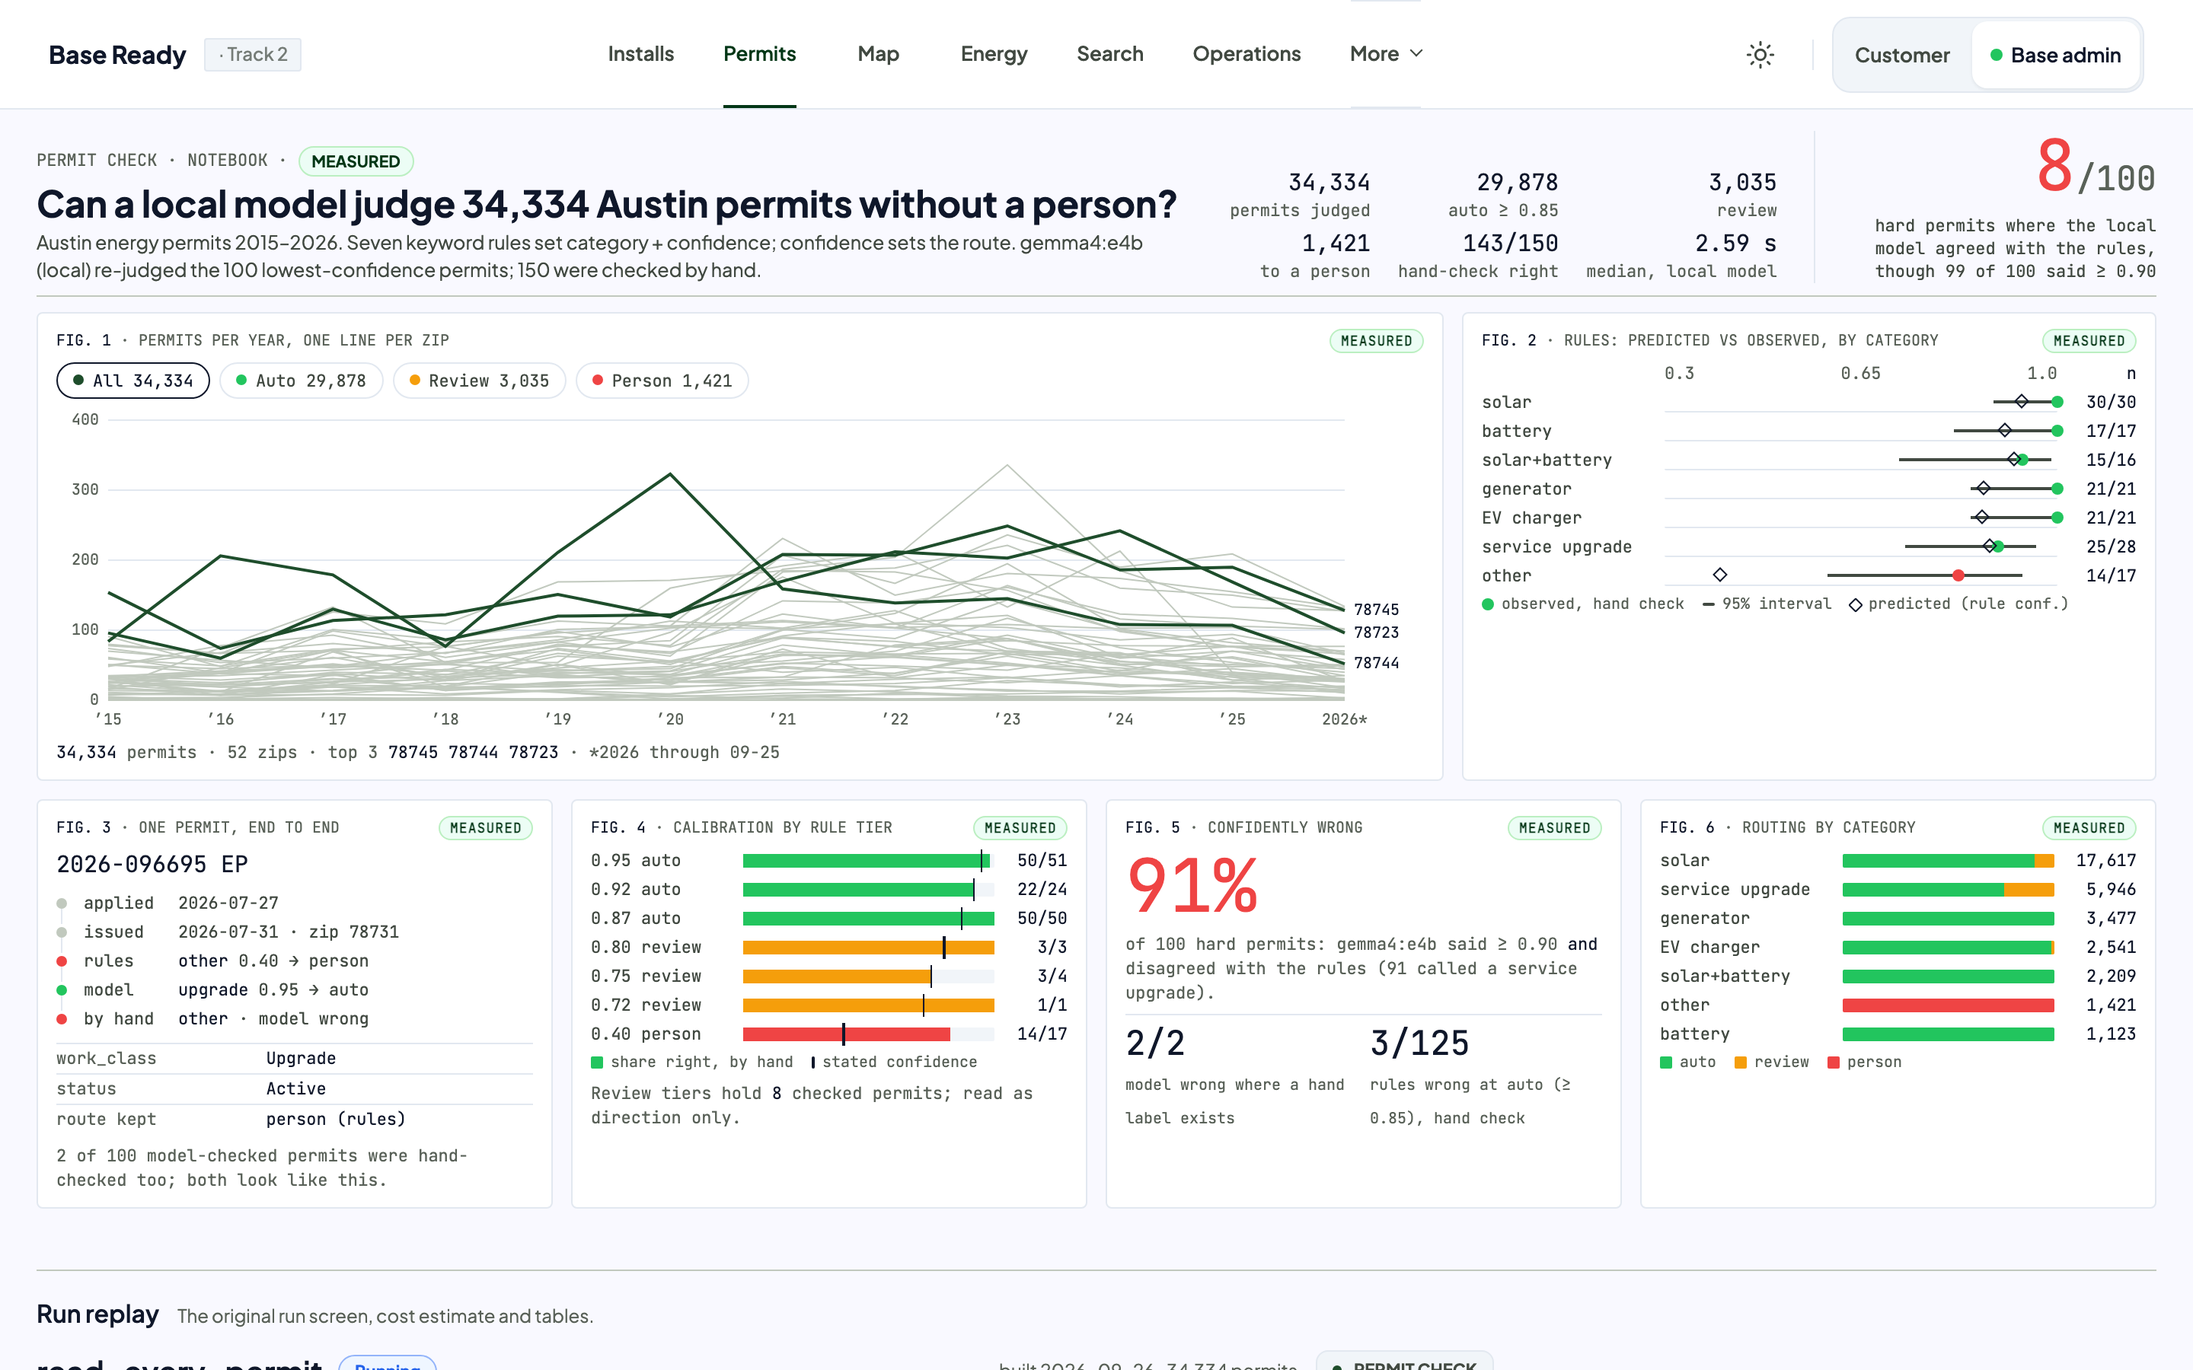
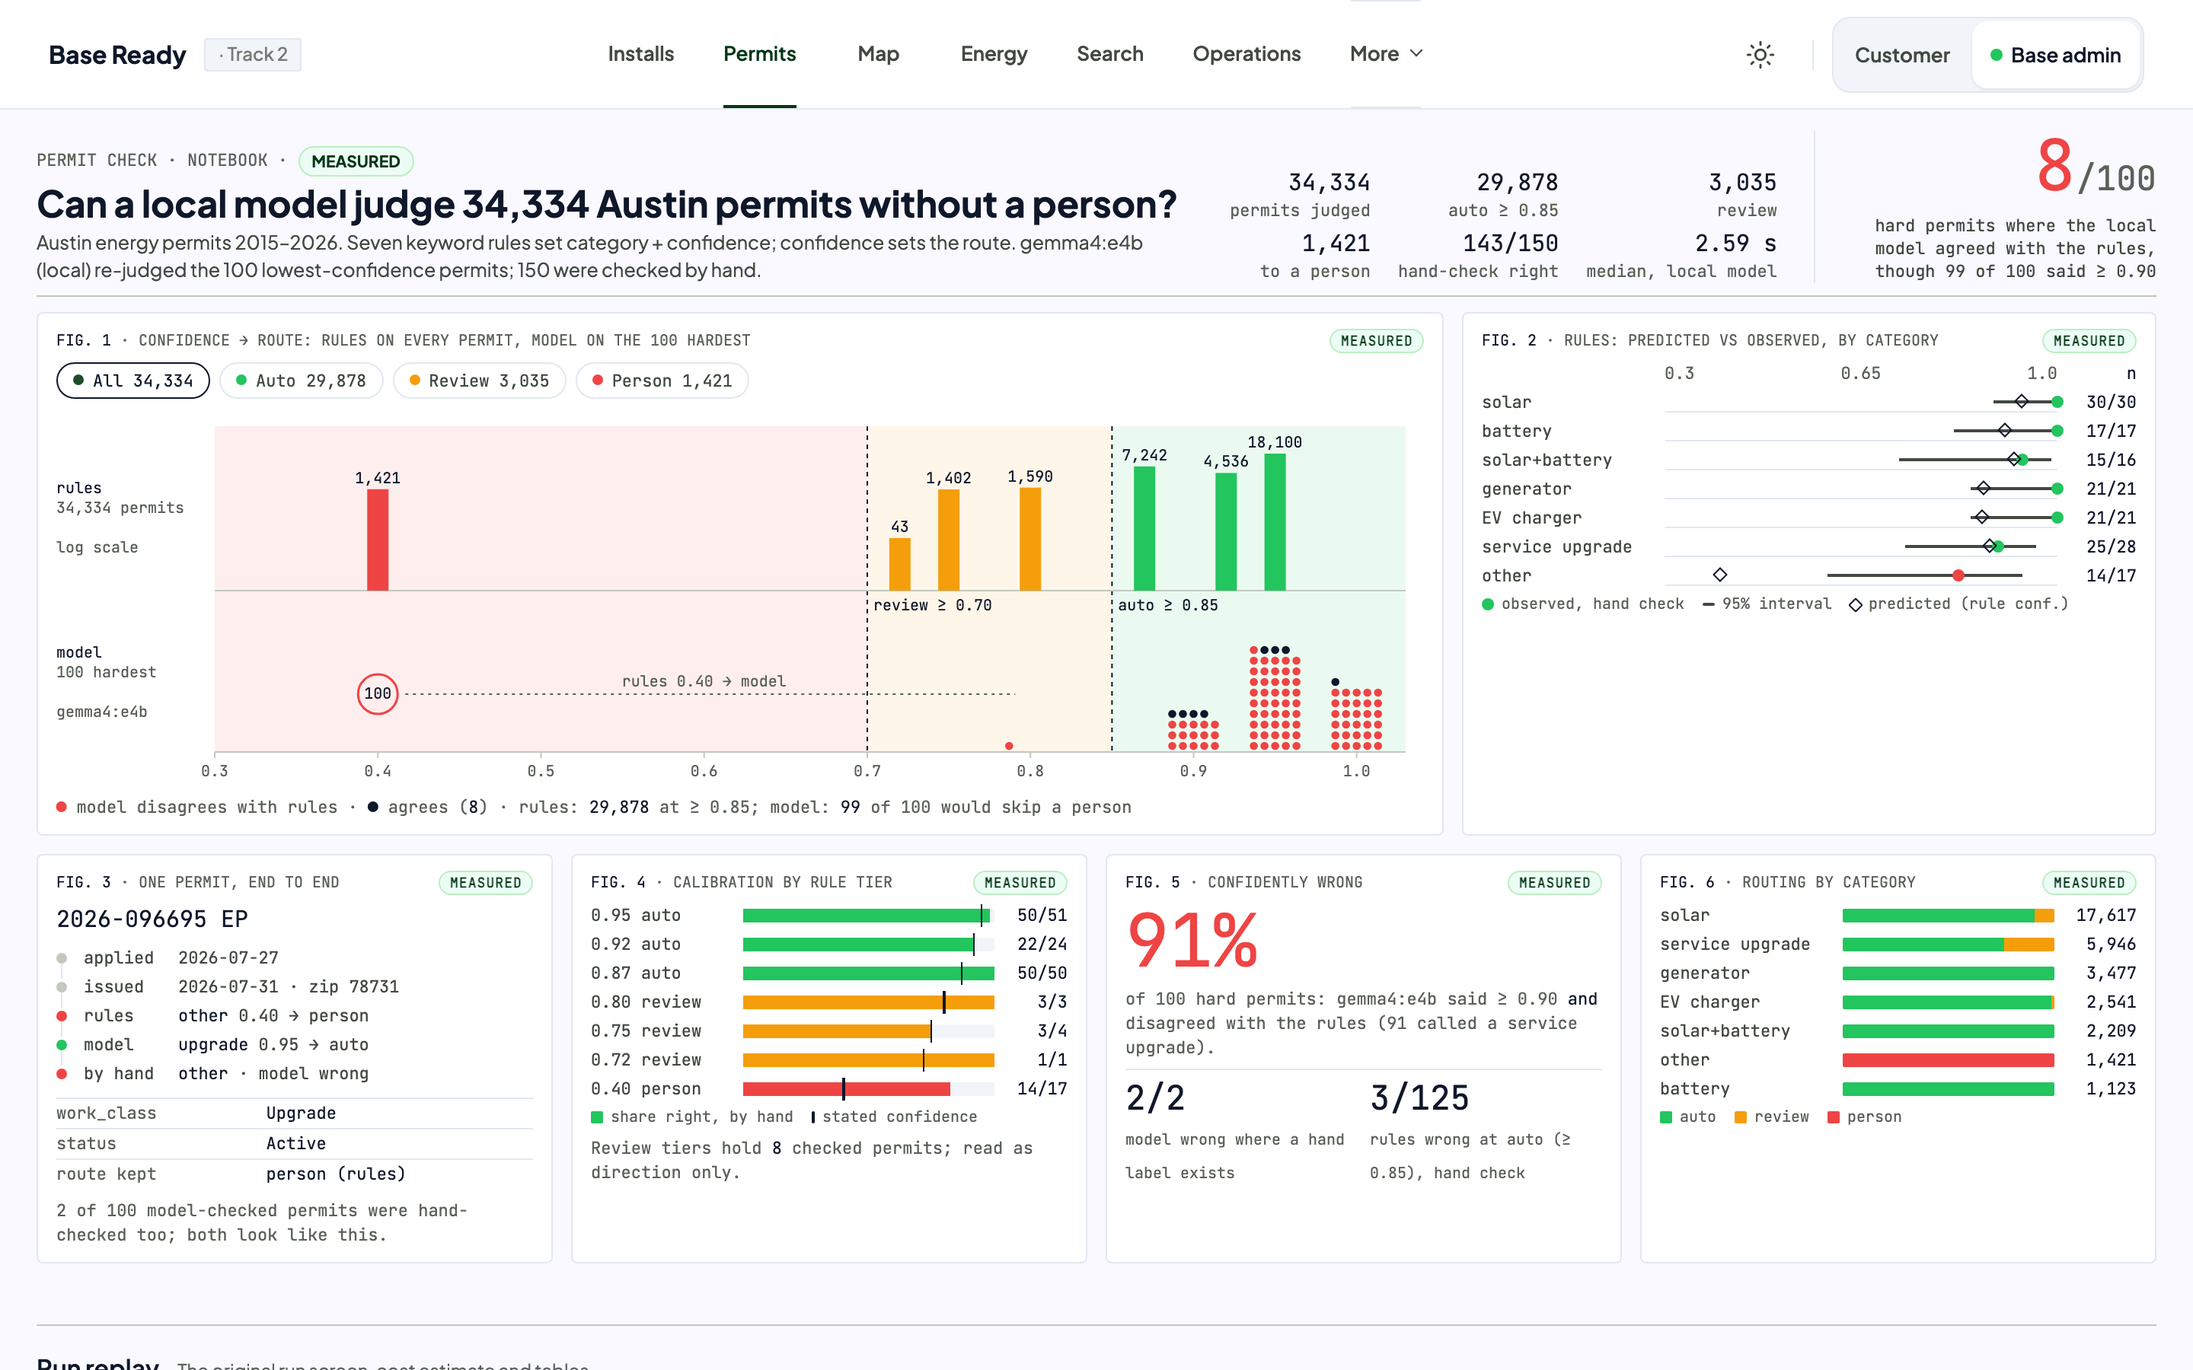
permits: FIG. 1 shows confidence -> route (rules on all, model on the 100 hardest); README explains routing
- FIG. 1 replaces permits-per-year with the judging view, 0.70/0.85 thresholds marked
- README "How permit routing works": data, seven rules, thresholds, counts, hand check, local model check, rebuild, tests
- tests/test_permit_routing.py: mirror + rules reproduce the published counts

Claude-Session: https://claude.ai/code/session_01MhZ4defSvUL2RRn7pbkeyv

diff --git a/web/permit-jev.js b/web/permit-jev.js
@@ -11,33 +11,49 @@
   const CAT = {solar: "solar", battery: "battery", solar_battery: "solar+battery", generator: "generator",
     ev_charger: "EV charger", panel_upgrade: "service upgrade", other_electrical: "other"};
 
-  function fig1(F, filter) {
-    const box = $("#pj-f1"), W = Math.max(280, box.clientWidth), H = W < 500 ? 220 : 212;
-    const m = {l: 34, r: 52, t: 8, b: 20}, Y = F.years, n = Y.length;
-    const keys = filter === "all" ? ["auto", "review", "human"] : [filter];
-    const series = Object.entries(F.zips).map(([z, v]) => [z, Y.map((_, i) => keys.reduce((a, k) => a + v[k][i], 0))]);
-    const max = Math.max(1, ...series.flatMap(s => s[1]));
-    const step = max > 200 ? 100 : max > 40 ? 20 : max > 10 ? 5 : 1, top = Math.ceil(max / step) * step;
-    const x = i => m.l + i * (W - m.l - m.r) / (n - 1), y = v => m.t + (H - m.t - m.b) * (1 - v / top);
-    const tot = s => s[1].reduce((a, b) => a + b, 0);
-    const hi = series.slice().sort((a, b) => tot(b) - tot(a)).slice(0, 3).map(s => s[0]);
-    const hiCol = filter === "all" ? "var(--bf-brand)" : COL[filter];
+  // FIG. 1: one confidence axis. Top lane: rule confidence for every permit (log bars, by route).
+  // Bottom lane: the 100 lowest-confidence permits (all 0.40 by rules) as the local model re-judged them.
+  function fig1(D, filter) {
+    const box = $("#pj-f1"), W = Math.max(280, box.clientWidth), wide = W > 560, T = D.thresholds, J = D.judge_compare;
+    const p = wide ? 7 : 5, cols = wide ? 5 : 2, lo = 0.3, hi = 1.03;
+    const m = {l: wide ? 104 : 4, r: 12, t: wide ? 16 : 30};
+    const x = v => m.l + (v - lo) / (hi - lo) * (W - m.l - m.r);
+    const tiers = D.permit_rules.map(r => ({v: r.confidence, n: r.rows, route: r.route}));
+    const A = 104, yA = m.t + A, gap = wide ? 30 : 44;
+    const byConf = {};
+    J.rows.forEach(r => (byConf[r.confidence] = byConf[r.confidence] || []).push(r));
+    Object.values(byConf).forEach(a => a.sort((q, w) => (q.value === q.rules) - (w.value === w.rules)));
+    const rows = Math.max(...Object.values(byConf).map(a => Math.ceil(a.length / cols)));
+    const yB = yA + gap, B = Math.max(40, rows * p + 6), H = yB + B + 22;
+    const on = r => filter === "all" || filter === r;
+    const max = Math.log10(Math.max(...tiers.map(t => t.n)));
     let g = "";
-    for (let v = 0; v <= top; v += step) g += `<line x1="${m.l}" x2="${W - m.r}" y1="${y(v)}" y2="${y(v)}" stroke="var(--pj-grid)" stroke-width="1"/><text x="${m.l - 6}" y="${y(v) + 3}" text-anchor="end">${v}</text>`;
-    Y.forEach((yr, i) => { if (W > 500 || i % 2 === 0 || i === n - 1) g += `<text x="${x(i)}" y="${H - 4}" text-anchor="middle">${i === n - 1 && W > 500 ? yr + "*" : "’" + yr.slice(2) + (i === n - 1 ? "*" : "")}</text>`; });
-    const path = d => d.map((v, i) => `${i ? "L" : "M"}${x(i).toFixed(1)},${y(v).toFixed(1)}`).join("");
-    let lines = "", labels = "";
-    series.filter(s => !hi.includes(s[0])).forEach(([z, d]) => { lines += `<path d="${path(d)}" fill="none" stroke="var(--pj-trace)" stroke-width="1"><title>${z}: ${fmt(tot([z, d]))}</title></path>`; });
-    const ends = [];
-    hi.forEach(z => {
-      const d = series.find(s => s[0] === z)[1];
-      lines += `<path d="${path(d)}" fill="none" stroke="${hiCol}" stroke-width="2"><title>${z}: ${fmt(d.reduce((a, b) => a + b, 0))}</title></path>`;
-      ends.push([z, y(d[n - 1])]);
+    [[lo, T.review, "human"], [T.review, T.auto, "review"], [T.auto, hi, "auto"]].forEach(([a, b, r]) =>
+      g += `<rect x="${x(a)}" y="${m.t - 4}" width="${x(b) - x(a)}" height="${H - 22 - m.t + 4}" fill="${COL[r]}" opacity="${on(r) ? .09 : .03}"/>`);
+    [[T.review, (wide ? "review ≥ " : "≥ ") + T.review.toFixed(2), "start"], [T.auto, (wide ? "auto ≥ " : "≥ ") + T.auto.toFixed(2), "start"]].forEach(([v, t]) =>
+      g += `<line x1="${x(v)}" x2="${x(v)}" y1="${m.t - 4}" y2="${H - 22}" stroke="var(--bf-ink)" stroke-dasharray="3 3" stroke-width="1"/><text x="${x(v) + 4}" y="${yA + 13}" class="ink">${t}</text>`);
+    for (let v = 0.3; v <= 1.0001; v += 0.1) g += `<line x1="${x(v)}" x2="${x(v)}" y1="${H - 22}" y2="${H - 18}" stroke="var(--bf-line-strong)"/><text x="${x(v)}" y="${H - 6}" text-anchor="middle">${v.toFixed(1)}</text>`;
+    g += `<line x1="${m.l}" x2="${W - m.r}" y1="${yA}" y2="${yA}" stroke="var(--bf-line-strong)"/><line x1="${m.l}" x2="${W - m.r}" y1="${H - 22}" y2="${H - 22}" stroke="var(--bf-line-strong)"/>`;
+    const lane = (y, a, b) => wide ? `<text x="0" y="${y}" class="ink">${a}</text><text x="0" y="${y + 13}">${b}</text>` : `<text x="${m.l}" y="${y}" class="ink">${a} <tspan style="fill:var(--bf-faint)">${b}</tspan></text>`;
+    g += wide ? lane(m.t + 40, "rules", fmt(tiers.reduce((a, t) => a + t.n, 0)) + " permits") + lane(m.t + 66, "", "log scale")
+      : lane(m.t - 12, "rules", fmt(tiers.reduce((a, t) => a + t.n, 0)) + " permits, log scale");
+    g += wide ? lane(yB + 14, "model", J.sample + " hardest") + lane(yB + 40, "", J.model) : lane(yB - 8, "model", J.sample + " hardest, " + J.model);
+    const bw = wide ? 14 : 7;
+    tiers.forEach(t => {
+      const h = Math.max(2, Math.log10(t.n) / max * (A - 14));
+      g += `<rect x="${x(t.v) - bw / 2}" y="${yA - h}" width="${bw}" height="${h}" fill="${COL[t.route]}" opacity="${on(t.route) ? 1 : .2}"><title>rule confidence ${t.v.toFixed(2)}: ${fmt(t.n)} permits, ${NAME[t.route]}</title></rect>`;
+      if (wide) g += `<text x="${x(t.v)}" y="${yA - h - 4}" text-anchor="middle" class="ink" opacity="${on(t.route) ? 1 : .3}">${fmt(t.n)}</text>`;
     });
-    ends.sort((a, b) => a[1] - b[1]).forEach((e, i) => { if (i && e[1] - ends[i - 1][1] < 11) e[1] = ends[i - 1][1] + 11; labels += `<text x="${W - m.r + 6}" y="${e[1] + 3}" class="ink">${e[0]}</text>`; });
-    box.innerHTML = `<svg viewBox="0 0 ${W} ${H}" height="${H}" role="img" aria-label="Permits per year for each of ${series.length} Austin zip codes, ${filter === "all" ? "all routes" : NAME[filter] + " route"}; highest: ${hi.join(", ")}">${g}${lines}${labels}</svg>`;
-    const sum = series.reduce((a, s) => a + tot(s), 0);
-    $("#pj-f1n").innerHTML = `<b>${fmt(sum)}</b> permits · ${series.length} zips · top 3 <b>${hi.join(" ")}</b> · *2026 through ${F._meta.issue_dates[1].slice(5)}`;
+    // bottom lane: rules put all 100 at 0.40; the model moved them
+    const rc = J.rows[0].rules_confidence, cy = yB + B / 2;
+    g += `<circle cx="${x(rc)}" cy="${cy}" r="${wide ? 13 : 10}" fill="none" stroke="${COL.human}" stroke-width="1.5" opacity="${on("human") ? 1 : .3}"/><text x="${x(rc)}" y="${cy + 3}" text-anchor="middle" class="ink">${J.sample}</text>`;
+    g += `<line x1="${x(rc) + (wide ? 18 : 14)}" x2="${x(0.8) - 10}" y1="${cy}" y2="${cy}" stroke="var(--bf-faint)" stroke-dasharray="2 3"/>${wide ? `<text x="${(x(rc) + x(0.8)) / 2}" y="${cy - 5}" text-anchor="middle">rules ${rc.toFixed(2)} → model</text>` : ""}`;
+    Object.entries(byConf).forEach(([v, a]) => a.forEach((r, i) => {
+      const cx = x(+v) + (i % cols - (cols - 1) / 2) * p, y = yB + B - 4 - Math.floor(i / cols) * p, ag = r.value === r.rules;
+      g += `<circle cx="${cx}" cy="${y}" r="${p * 0.38}" fill="${ag ? "var(--bf-ink)" : COL.human}" opacity="${on(r.route) ? 1 : .15}"><title>${esc(r.permit)}: rules ${esc(r.rules)} ${r.rules_confidence}, model ${esc(r.value)} ${r.confidence}${ag ? " (agrees)" : ""}</title></circle>`;
+    }));
+    box.innerHTML = `<svg viewBox="0 0 ${W} ${H}" height="${H}" role="img" aria-label="Rule confidence for ${fmt(tiers.reduce((a, t) => a + t.n, 0))} permits by route, and ${J.sample} hard permits re-judged by ${J.model}: ${J.agree_with_rules} agree with the rules">${g}</svg>`;
+    $("#pj-f1n").innerHTML = `<span style="color:var(--pj-human)">●</span> model disagrees with rules · <span style="color:var(--bf-ink)">●</span> agrees (<b>${J.agree_with_rules}</b>) · rules: <b>${fmt(D.counts.permit.auto)}</b> at ≥ ${T.auto.toFixed(2)}; model: <b>${J.routes.auto}</b> of ${J.sample} would skip a person`;
   }
 
   function render(D, F) {
@@ -56,10 +72,10 @@
       const b = e.target.closest("button"); if (!b) return;
       filter = b.dataset.k;
       document.querySelectorAll("#pj-chips button").forEach(x => x.setAttribute("aria-pressed", x === b));
-      fig1(F, filter);
+      fig1(D, filter);
     });
-    fig1(F, filter);
-    let rt; addEventListener("resize", () => { clearTimeout(rt); rt = setTimeout(() => fig1(F, filter), 120); });
+    fig1(D, filter);
+    let rt; addEventListener("resize", () => { clearTimeout(rt); rt = setTimeout(() => fig1(D, filter), 120); });
 
     // FIG. 2: observed accuracy (hand check, Wilson 95% interval) vs predicted (mean rule confidence)
     const lo = 0.3, sc = v => ((v - lo) / (1 - lo) * 100).toFixed(1) + "%";

diff --git a/web/judgments.html b/web/judgments.html
@@ -111,7 +111,7 @@ footer{margin-top:28px;font:var(--bf-text-small);color:var(--bf-faint)}
   </header>
   <div class="pj-grid">
    <figure class="pj-fig pj-f1" style="margin:0">
-    <figcaption class="pj-cap"><span><b>Fig. 1</b> · permits per year, one line per zip</span><span class="tag m">Measured</span></figcaption>
+    <figcaption class="pj-cap"><span><b>Fig. 1</b> · confidence → route: rules on every permit, model on the 100 hardest</span><span class="tag m">Measured</span></figcaption>
     <div class="pj-chips" id="pj-chips" role="group" aria-label="Filter by route"></div>
     <div id="pj-f1"></div>
     <div class="pj-note" id="pj-f1n"></div>

diff --git a/tests/test_permit_routing.py b/tests/test_permit_routing.py
@@ -1,0 +1,38 @@
+"""Permit routing: the checked-in feeds agree with the mirror and the rules. Stdlib + pytest."""
+import csv, gzip, json, os, sys
+from collections import Counter
+
+ROOT = os.path.dirname(os.path.dirname(os.path.abspath(__file__)))
+sys.path.insert(0, ROOT)
+from store.judgments import ROUTES, RULE_CONFIDENCE, route, rule_confidence  # noqa: E402
+
+load = lambda p: json.load(open(os.path.join(ROOT, p)))
+
+
+def permits():
+    return list(csv.DictReader(gzip.open(os.path.join(ROOT, "data/mirror/energy_permits.csv.gz"), "rt")))
+
+
+def test_thresholds_route():
+    assert route(ROUTES["auto"]) == "auto" and route(ROUTES["review"]) == "review" and route(0.4) == "human"
+    assert len(RULE_CONFIDENCE) == 7
+
+
+def test_mirror_reproduces_feed_counts():
+    D = load("web/data/judgments.json")
+    got = Counter(route(rule_confidence(p["category"], p["work_class"])[0]) for p in permits())
+    assert dict(got) == D["counts"]["permit"]
+    tiers = Counter(rule_confidence(p["category"], p["work_class"])[0] for p in permits())
+    assert {r["confidence"]: r["rows"] for r in D["permit_rules"]} == dict(tiers)
+
+
+def test_figures_match_feed():
+    D, F = load("web/data/judgments.json"), load("web/data/permit_jev.json")
+    c = D["counts"]["permit"]
+    assert F["n"] == sum(c.values())
+    for r in ("auto", "review", "human"):
+        assert sum(k[r] for k in F["categories"]) == c[r]
+    assert sum(t["checked"] for t in F["tiers"]) == F["check"]["n"]
+    assert sum(t["correct"] for t in F["tiers"]) == F["check"]["correct"]
+    J = D["judge_compare"]
+    assert sum(r["value"] == r["rules"] for r in J["rows"]) == J["agree_with_rules"]

diff --git a/web/data/build_permit_jev.py b/web/data/build_permit_jev.py
@@ -35,13 +35,7 @@ def main():
         p["conf"], p["rule"] = rule_confidence(p["category"], p["work_class"])
         p["route"] = route(p["conf"])
 
-    years = sorted({p["issue_date"][:4] for p in permits})
-    # Per zip, permits issued per year, split by route (FIG. 1).
-    zy = defaultdict(lambda: {r: [0] * len(years) for r in ("auto", "review", "human")})
-    for p in permits:
-        zy[p["zip"]][p["route"]][years.index(p["issue_date"][:4])] += 1
-
-    # Routing by category (FIG. 6) and permit-weighted rule confidence per category (FIG. 2 predicted).
+    # Routing by category (FIG. 6) and permit-weighted rule confidence per category (FIG. 2 predicted; FIG. 1 uses judgments.json).
     cat_route = {c: Counter() for c in CATS}
     cat_conf = defaultdict(float)
     for p in permits:
@@ -76,8 +70,6 @@ def main():
                   "builder": "web/data/build_permit_jev.py",
                   "issue_dates": [min(p["issue_date"] for p in permits), max(p["issue_date"] for p in permits)]},
         "n": len(permits),
-        "years": years,
-        "zips": {z: v for z, v in sorted(zy.items())},
         "categories": [{"cat": c, "n": sum(cat_route[c].values()),
                         "auto": cat_route[c]["auto"], "review": cat_route[c]["review"], "human": cat_route[c]["human"],
                         "predicted": round(cat_conf[c] / max(1, sum(cat_route[c].values())), 3),

diff --git a/README.md b/README.md
@@ -110,6 +110,42 @@ Every number on a page names its source file and a tag: **Measured** (we ran it 
 
 The 40 demo homes are real Austin addresses from public permit records; there are no owner names. Answers, points and photos a visitor adds stay in that browser.
 
+## How permit routing works
+
+The Permits page ([web/judgments.html](web/judgments.html)) gives every Austin energy permit a category and a confidence. The confidence sets the route.
+
+**Data.** 34,334 City of Austin energy permits (Socrata `3syk-w9eu`), issued 2015-01-02 to 2026-09-25, mirrored to `data/mirror/energy_permits.csv.gz` by `house/mirror.py`. The mirror holds no owner names, addresses or descriptions.
+
+**Seven rules** (`house/mirror.py` `categorize`, confidence in `store/judgments.py` `RULE_CONFIDENCE`):
+
+| Rule | Confidence | Route | Permits |
+|---|---|---|---|
+| work_class Auxiliary Power agrees with a battery or PV keyword | 0.95 | auto | 18,100 |
+| work_class Upgrade plus an upgrade keyword | 0.92 | auto | 4,536 |
+| a specific term (battery, Powerwall, generator, EV charger), work_class neutral | 0.87 | auto | 7,242 |
+| solar via PV or modules plus inverter, work_class not Auxiliary Power | 0.80 | review | 1,590 |
+| upgrade or 200 amp wording, work_class not Upgrade | 0.75 | review | 1,402 |
+| keyword and work_class Auxiliary Power point to different things | 0.72 | review | 43 |
+| no rule matched (other_electrical) | 0.40 | person | 1,421 |
+
+**Routes.** Confidence 0.85 or more goes to auto. Confidence from 0.70 up to 0.85 goes to model review. Below 0.70, a person checks the permit. Result: 34,334 judged, 29,878 auto, 3,035 review, 1,421 to a person.
+
+**Hand check.** 150 permits were checked by hand against the rule category (`data/mirror/category_check.csv`): 143 of 150 were right. The weakest were other_electrical (14 of 17) and panel_upgrade (25 of 28).
+
+**Local model check.** `gemma4:e4b`, run locally with Ollama, re-judged the 100 permits with the lowest rule confidence. It agreed with the rules on 8 of 100, but it gave a confidence of 0.90 or more on 99 of them. It labelled 91 of them as panel upgrades. Two of those permits are also in the hand check, and the model was wrong on both. So a model's own confidence does not route permits: those permits still go to a person.
+
+**Rebuild** (from the repo root):
+
+```sh
+python3 -m house.mirror --incremental                 # refresh the permit mirror (network)
+python3 store/build.py                                # load the mirror into data/fleet.db
+python3 -m store.judge --backend gemma --sample 100   # optional: local model re-judge (needs Ollama + gemma4:e4b)
+python3 -m store.judgments                            # write web/data/judgments.json
+python3 web/data/build_permit_jev.py                  # write web/data/permit_jev.json (the page's figures)
+```
+
+**Tests.** `python3 -m pytest tests/test_permit_routing.py` checks that the mirror plus the rules reproduce the counts in both JSON files, and that the hand-check and model-agreement totals add up.
+
 ## Known limitations
 
 - The demo covers 40 preset Austin homes, not any address.
